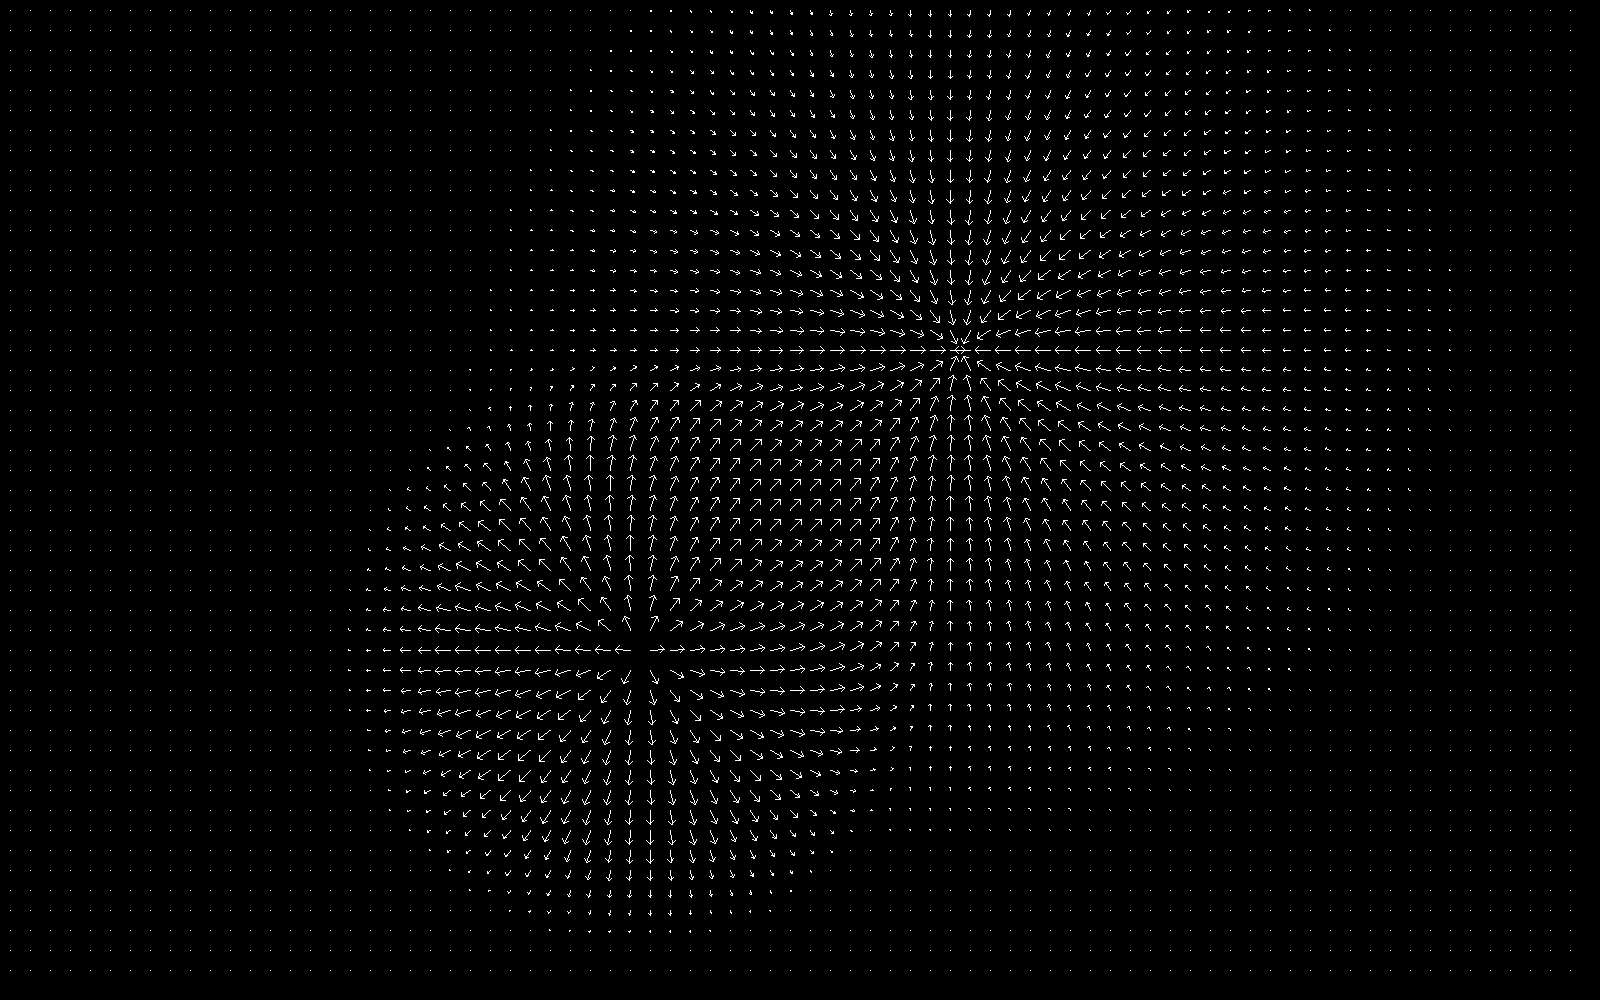
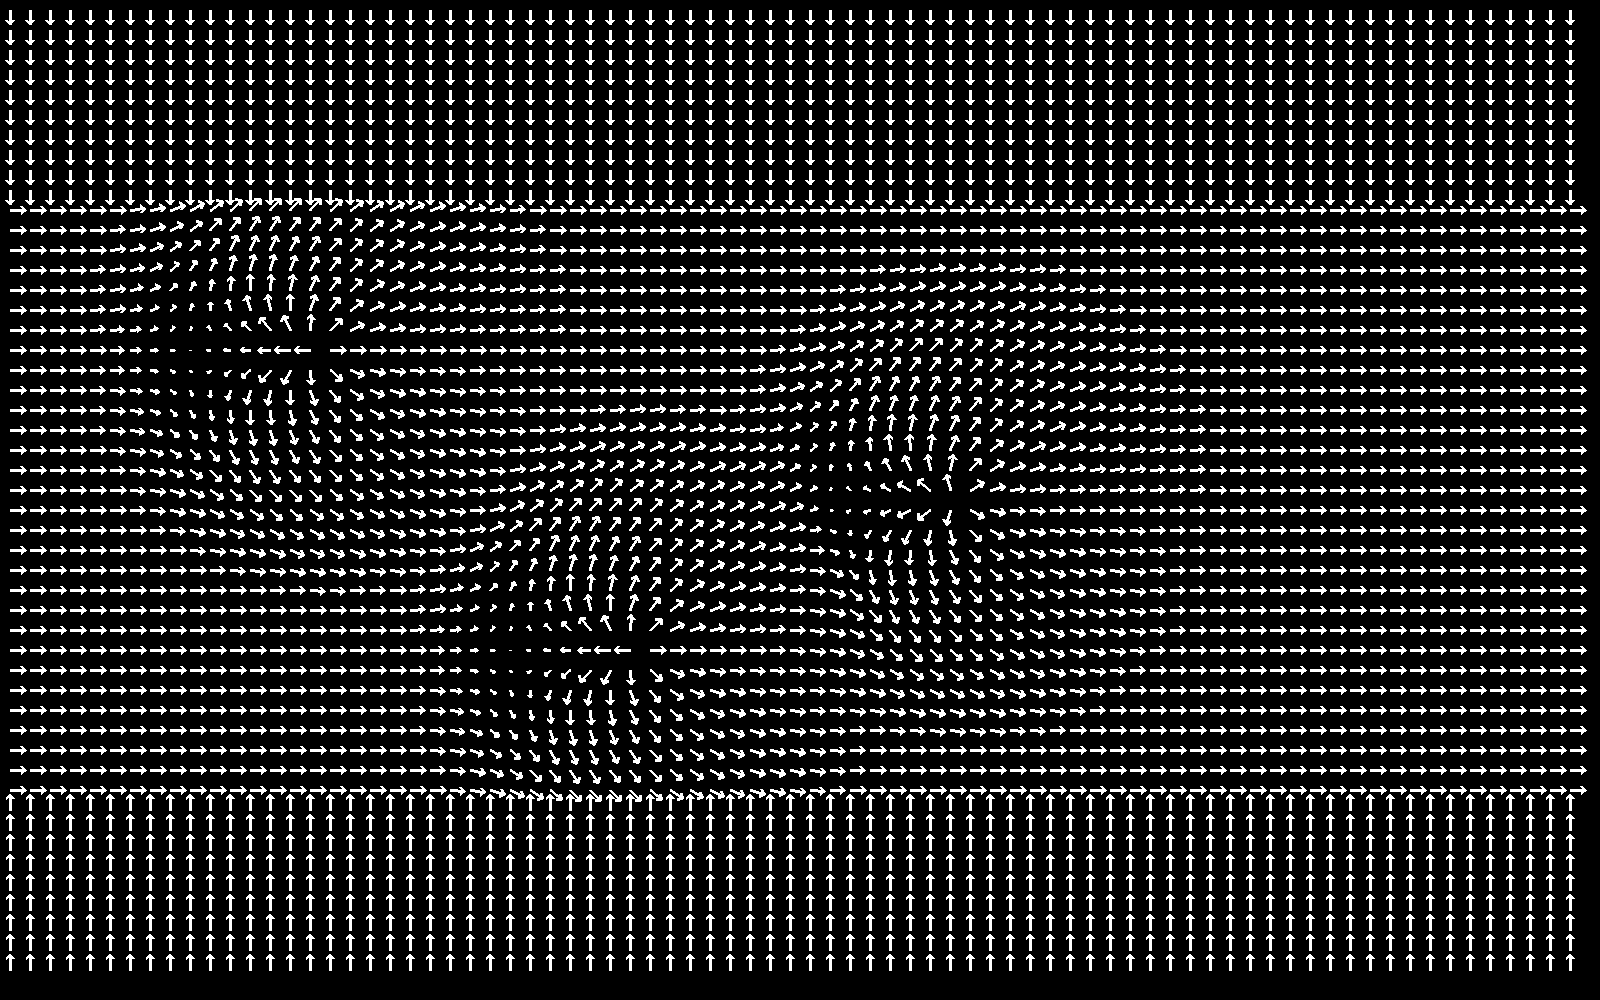
Added random noise schema.

Changed region(s): [[0.0, 0.0, 1.0, 0.961]]

diff --git a/potentialField.py b/potentialField.py
@@ -17,6 +17,7 @@ REPULSE = 2
 ATTRACT = 3
 CENTER_VERTICAL = 4
 CENTER_HORIZONTAL = 5
+RANDOM_NOISE = 6
 
 LINE_WIDTH = 3
 
@@ -157,6 +158,8 @@ class PotentialField:
             self.field += self.centerVerticalSchema(kwargs)
         if type == CENTER_HORIZONTAL:
             self.field += self.centerHorizontalSchema(kwargs)
+        if type == RANDOM_NOISE:
+            self.field += self.randomNoiseSchema(kwargs)
     
     def inDirectionSchema(self, kwargs):
         """
@@ -356,6 +359,42 @@ class PotentialField:
         field[-kwargs['borderRadius']:, :, 0] = -kwargs['maxVel']
         return field
 
+    def randomNoiseSchema(self, kwargs):
+        """
+            Add schema that introduces random noise into the field
+            with the hopes of preventing a robot from getting stuck.
+
+            kwargs should contain:
+                maxVel (float)
+        """
+        # Create random field
+        field = np.random.rand(
+            self.fieldSize[0], self.fieldSize[1], 2
+        )
+        field[:, :, 0] = cvtRange(
+            field[:, :, 0], 0.0, 1.0, -1.0, 1.0
+        )
+        field[:, :, 1] = cvtRange(
+            field[:, :, 1], 0.0, 1.0, -1.0, 1.0
+        )
+        # Get magnitude field
+        magnitudeField = np.sqrt(
+            field[:, :, 0] ** 2 + field[:, :, 1] ** 2
+        )
+        magnitudeField = np.clip(
+            magnitudeField, 0.0000001, math.inf
+        )
+        # Create normal field
+        normalField = np.zeros(
+            (self.fieldSize[0], self.fieldSize[1], 2)
+        )
+        normalField[:, :, 0] = field[:, :, 0] / magnitudeField
+        normalField[:, :, 1] = field[:, :, 1] / magnitudeField
+        # Re-scale the normal field
+        field[:, :, 0] = normalField[:, :, 0] * kwargs['maxVel']
+        field[:, :, 1] = normalField[:, :, 1] * kwargs['maxVel']
+        return field
+
 
 
 """
@@ -371,30 +410,36 @@ if __name__ == '__main__':
     pf = PotentialField(FIELD_SIZE)
 
     pf.addSchema(
-        REPULSE,
-        repulsePos=(FIELD_SIZE[0]*2.0/5.0, FIELD_SIZE[1]/2+150), 
-        minVel=0, maxVel=40, radius=300
+        CENTER_VERTICAL,
+        borderRadius=200, maxVel=1000.0
     )
     
     pf.addSchema(
-        ATTRACT,
-        attractPos=(FIELD_SIZE[0]*3.0/5.0, FIELD_SIZE[1]/2-150), 
-        minVel=0, maxVel=20, radius=500
+        REPULSE,
+        repulsePos=(FIELD_SIZE[0] * 1.0/5.0, 350),
+        minVel=0, maxVel=40, radius=250
     )
 
     pf.addSchema(
-        CENTER_VERTICAL,
-        borderRadius=300, maxVel=10.0
+        REPULSE,
+        repulsePos=(FIELD_SIZE[0] * 2.0/5.0, 650),
+        minVel=0, maxVel=40, radius=250
+    )
+
+    pf.addSchema(
+        REPULSE,
+        repulsePos=(FIELD_SIZE[0] * 3.0/5.0, 500),
+        minVel=0, maxVel=40, radius=250
     )
 
     pf.addSchema(
         IN_DIRECTION,
-        magnitude=4.0, angle=0.0
+        magnitude=20.0, angle=0.0
     )
 
     pf.addSchema(
-        CENTER_HORIZONTAL,
-        borderRadius=300, maxVel=10.0
+        RANDOM_NOISE,
+        maxVel=3.0
     )
 
     pf.clampField(15.0)
